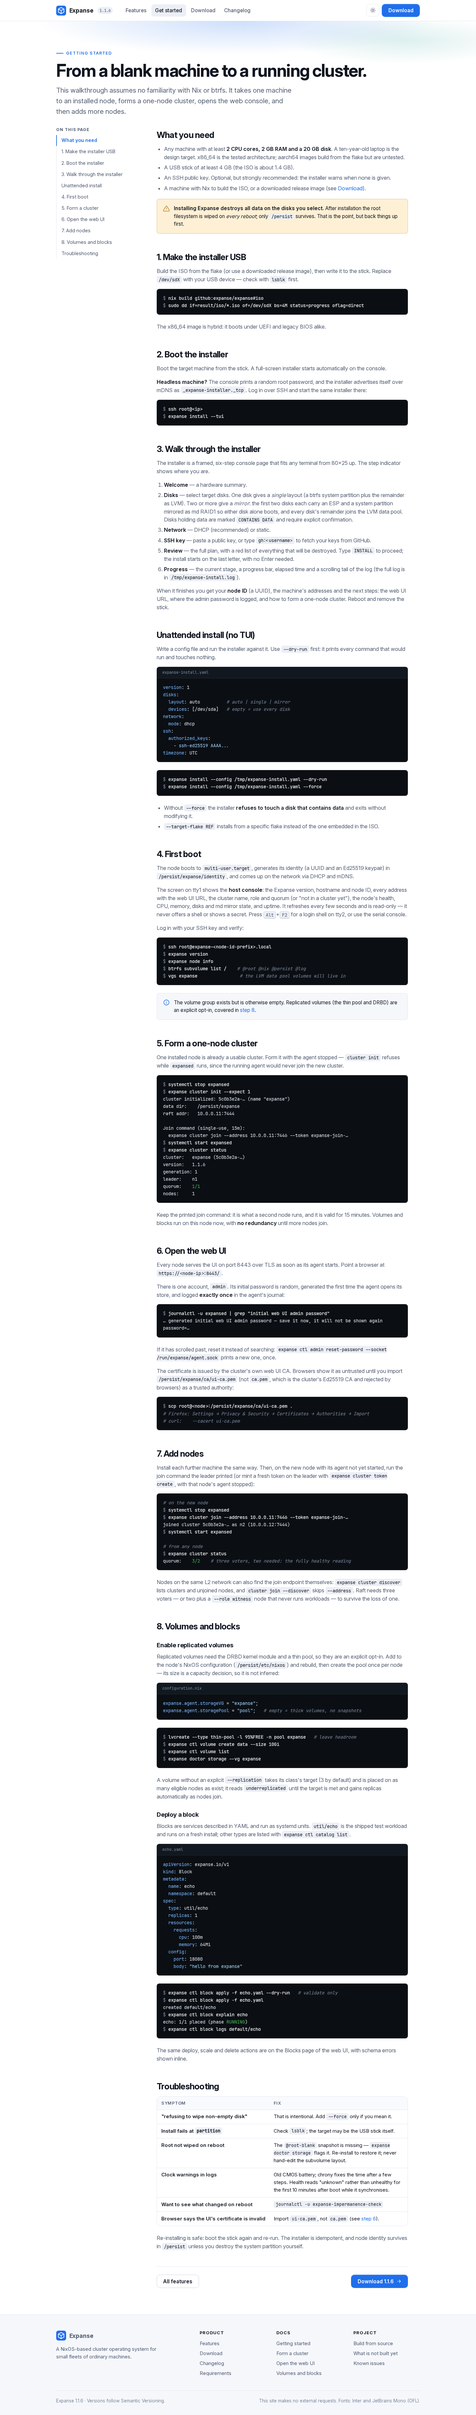
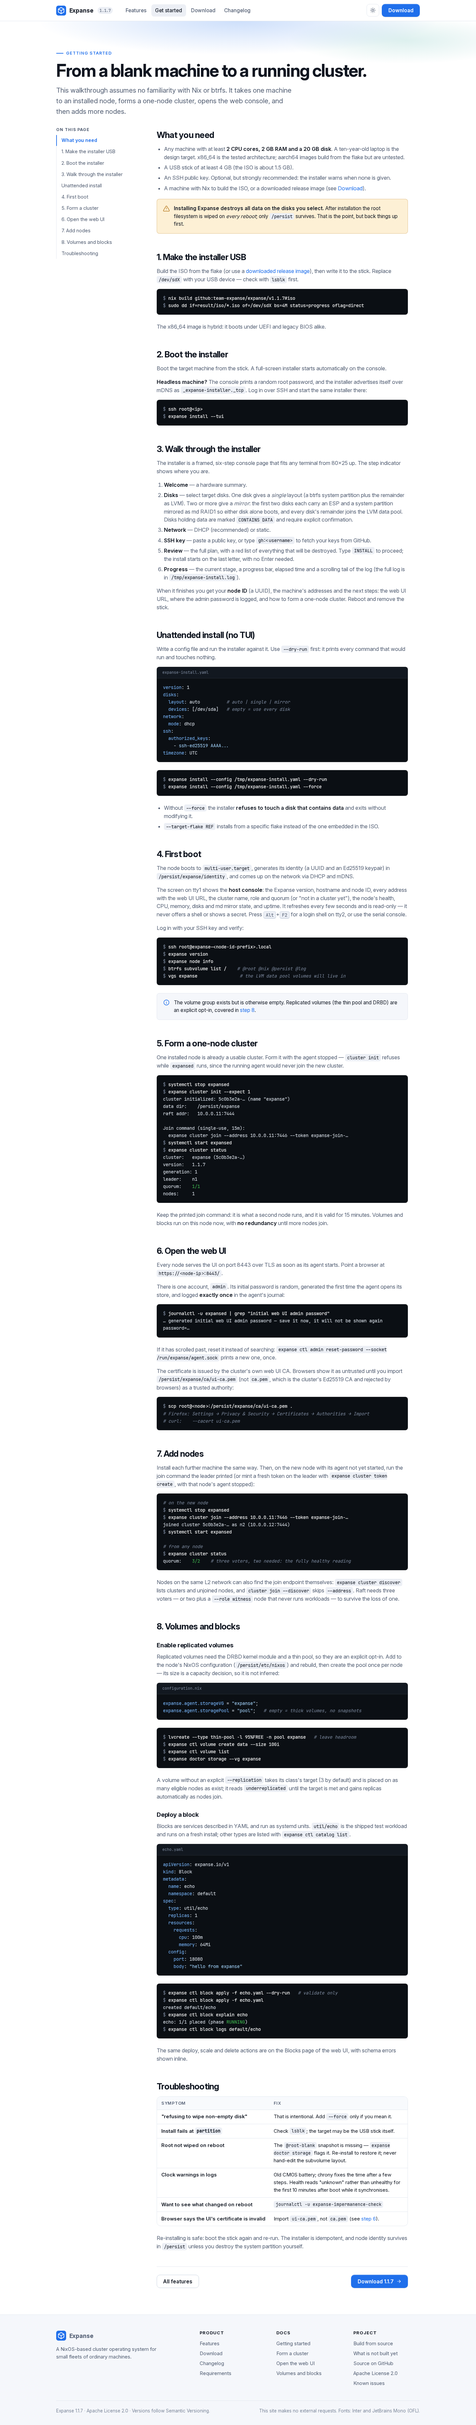
Prepare for launch and sync the site to Expanse 1.1.7
- Flake commands use the right org and pin the release tag
  (github:team-expanse/expanse/v1.1.7#iso)
- Footer links the source and the Apache License 2.0 on every page
- Download: link the GitHub release, show the ISO's SHA-256 and how to
  check it against SHA256SUMS, state the licence
- Release 1.1.7 synced by tools/sync-release from the published release
- Changelog code spans wrap on narrow screens; .nojekyll for GitHub Pages

Claude-Session: https://claude.ai/code/session_01TJ4uj8SR2WCx7QSxgW4hcT

diff --git a/download.html b/download.html
@@ -5,7 +5,7 @@
   <meta name="viewport" content="width=device-width, initial-scale=1">
   <meta name="color-scheme" content="light dark">
   <title>Download — Expanse</title>
-  <meta name="description" content="Get Expanse 1.1.6: the installer ISO, how to build it from source, hardware requirements, the changelog and known issues.">
+  <meta name="description" content="Get Expanse 1.1.7: the installer ISO, how to build it from source, hardware requirements, the changelog and known issues.">
   <link rel="icon" href="assets/logo.svg" type="image/svg+xml">
   <link rel="stylesheet" href="assets/site.css">
   <script>
@@ -34,7 +34,7 @@
     <a class="brand" href="index.html" aria-label="Expanse home">
       <svg class="brand-mark" aria-hidden="true"><use href="#i-logo"/></svg>
       <span>Expanse</span>
-      <span class="brand-version">1.1.6</span>
+      <span class="brand-version">1.1.7</span>
     </a>
     <nav class="site-nav" id="site-nav" data-nav aria-label="Main">
       <a href="features.html">Features</a>
@@ -60,7 +60,7 @@
     <div class="hero-bg" aria-hidden="true"></div>
     <div class="container">
       <div class="eyebrow">Download</div>
-      <h1>Get Expanse 1.1.6.</h1>
+      <h1>Get Expanse 1.1.7.</h1>
       <p class="lead">One hybrid ISO installs a node on x86_64 hardware. Build it from the flake, or write a release image to a USB stick, then follow the <a href="docs/getting-started.html">quickstart</a>.</p>
     </div>
   </section>
@@ -70,20 +70,21 @@
       <div class="release">
         <div class="release-card">
           <div class="eyebrow">Latest release</div>
-          <h2>Expanse 1.1.6</h2>
-          <div class="date">Released 2026-09-28 · installer facelift, tty1 host console, quiet boots</div>
+          <h2>Expanse 1.1.7</h2>
+          <div class="date">Released 2026-09-28 · Apache-2.0 licence, bundled third-party notices, quiet clock checks at boot</div>
           <div class="file">
             <svg class="icon" aria-hidden="true"><use href="#i-disc"/></svg>
             <div>
-              <div class="name">expanse-1.1.6-x86_64-linux.iso</div>
-              <div class="meta">Hybrid UEFI + BIOS installer image · about 1.4 GB · needs a 4 GB USB stick</div>
+              <div class="name">expanse-1.1.7-x86_64-linux.iso</div>
+              <div class="meta">Hybrid UEFI + BIOS installer image · about 1.5 GB · needs a 4 GB USB stick</div>
+              <div class="meta">SHA-256 <code class="sha256">ad0327c88508a9fe21d29a7f3fce8cb84c80d3aae7fb120af25f30d2b51e0e46</code></div>
             </div>
           </div>
           <div class="hero-actions" style="justify-content:flex-start">
-            <a class="btn btn-primary btn-lg" href="https://github.com/team-expanse/expanse/releases/download/v1.1.6/expanse-1.1.6-x86_64-linux.iso"><svg class="icon" aria-hidden="true"><use href="#i-download"/></svg>Download ISO</a>
+            <a class="btn btn-primary btn-lg" href="https://github.com/team-expanse/expanse/releases/download/v1.1.7/expanse-1.1.7-x86_64-linux.iso"><svg class="icon" aria-hidden="true"><use href="#i-download"/></svg>Download ISO</a>
             <a class="btn btn-secondary btn-lg" href="#source">Build from source</a>
           </div>
-          <p class="muted" style="margin-top:1.25rem;font-size:0.9rem">Release images are attached to the <code>v1.1.6</code> release on GitHub. Building from source gives you the same release: the flake asserts the ISO is named <code>expanse-1.1.6-*</code> and that the installer reports 1.1.6.</p>
+          <p class="muted" style="margin-top:1.25rem;font-size:0.9rem">Release images are attached to the <a href="https://github.com/team-expanse/expanse/releases/tag/v1.1.7"><code>v1.1.7</code> release</a> on GitHub. Check the download against the release's <a href="https://github.com/team-expanse/expanse/releases/download/v1.1.7/SHA256SUMS"><code>SHA256SUMS</code></a> with <code>sha256sum -c SHA256SUMS</code> in the same folder. Building from source gives you the same release: the flake asserts the ISO is named <code>expanse-1.1.7-*</code> and that the installer reports 1.1.7.</p>
         </div>
         <div>
           <div class="card" style="height:100%">
@@ -98,6 +99,7 @@
             <ul class="checks" style="margin-top:1.25rem">
               <li><svg class="icon" aria-hidden="true"><use href="#i-info"/></svg><span><strong>Architectures:</strong> x86_64, booting via UEFI or legacy BIOS. An aarch64 image (UEFI only) builds from the flake but has not been tested.</span></li>
               <li><svg class="icon" aria-hidden="true"><use href="#i-info"/></svg><span><strong>Cluster sizes:</strong> one node works; three voters (or two plus a witness) survive losing one.</span></li>
+              <li><svg class="icon" aria-hidden="true"><use href="#i-info"/></svg><span><strong>Licence:</strong> Expanse is free software under the <a href="https://github.com/team-expanse/expanse/blob/main/LICENSE">Apache License 2.0</a>; the source is on <a href="https://github.com/team-expanse/expanse">GitHub</a>.</span></li>
               <li><svg class="icon" aria-hidden="true"><use href="#i-info"/></svg><span><strong>Hardware status:</strong> automated coverage is on QEMU/KVM. Laptop, mini-PC, server and ARM SBC targets are listed in the hardware matrix as untested.</span></li>
             </ul>
           </div>
@@ -119,10 +121,10 @@
             <li><svg class="icon" aria-hidden="true"><use href="#i-info"/></svg><span>The release version lives in one place, <code>nix/version.nix</code>; the ISO name and <code>expanse version</code> both read it.</span></li>
           </ul>
         </div>
-        <div class="terminal"><div class="window-bar" aria-hidden="true"><span class="dots"><i></i><i></i><i></i></span><span>build the installer</span></div><pre><span class="cm"># the installer ISO, straight from the flake reference</span>
-<span class="p">$ </span><span class="cmd">nix build github:expanse/expanse#iso</span>
+        <div class="terminal"><div class="window-bar" aria-hidden="true"><span class="dots"><i></i><i></i><i></i></span><span>build the installer</span></div><pre><span class="cm"># the 1.1.7 installer ISO, straight from the release tag</span>
+<span class="p">$ </span><span class="cmd">nix build github:team-expanse/expanse/v1.1.7#iso</span>
 <span class="p">$ </span><span class="cmd">ls result/iso/</span>
-<span class="out">expanse-1.1.6-x86_64-linux.iso</span>
+<span class="out">expanse-1.1.7-x86_64-linux.iso</span>
 
 <span class="cm"># or from a checkout</span>
 <span class="p">$ </span><span class="cmd">nix develop</span>          <span class="cm"># go, golangci-lint, protoc, qemu, …</span>
@@ -143,6 +145,22 @@
       </div>
       <div class="changelog">
         <details class="rel latest" open>
+          <summary><span class="ver">1.1.7</span><span>Apache-2.0 licence, bundled third-party notices, quiet clock checks at boot</span><span class="when">2026-09-28</span><svg class="icon chev" aria-hidden="true"><use href="#i-chevron"/></svg></summary>
+          <div class="rel-body">
+            <h4>Added</h4>
+            <ul>
+              <li>Expanse is licensed under the Apache License, Version 2.0: <code>LICENSE</code> and <code>NOTICE</code> at the top of the source tree, and <code>meta.license</code> on the Nix package.</li>
+              <li>The <code>expanse</code> package ships <code>LICENSE</code>, <code>NOTICE</code>, a <code>THIRD-PARTY.md</code> listing every vendored Go module and its version, and each module's own licence, under <code>share/licenses/expanse</code>. Installed nodes and the installer link them at <code>/run/current-system/sw/share/licenses/expanse</code>. Earlier ISOs shipped the binaries without the notices their MIT and BSD modules require.</li>
+              <li><code>scripts/release.sh</code> publishes a release: it builds and checks the ISO, stages <code>SHA256SUMS</code>, the changelog notes and a <code>release.json</code> manifest, pushes the tag, creates the GitHub release with the ISO attached and runs the website's <code>tools/sync-release</code> hook. See <code>docs/RELEASING.md</code>.</li>
+            </ul>
+            <h4>Fixed</h4>
+            <ul>
+              <li>Nodes read DEGRADED for about two minutes after each boot, long enough to fire <code>ExpanseNodeDegraded</code>: the clock-sync check judged chrony's last correction, which is the clock step chrony makes at boot, instead of how far the clock is off now (<code>System time</code> in <code>chronyc tracking</code>).</li>
+            </ul>
+          </div>
+        </details>
+
+        <details class="rel">
           <summary><span class="ver">1.1.6</span><span>Installer facelift, tty1 host console, quiet boots</span><span class="when">2026-09-28</span><svg class="icon chev" aria-hidden="true"><use href="#i-chevron"/></svg></summary>
           <div class="rel-body">
             <h4>Changed</h4>
@@ -275,10 +293,10 @@
         <div>
           <div class="eyebrow">Known issues</div>
           <h2>Read before you install.</h2>
-          <p class="lead" style="margin-top:0.9rem">Carried in the changelog as of 1.1.6. Everything under 1.0.0 still applies unless a later release says otherwise.</p>
+          <p class="lead" style="margin-top:0.9rem">Carried in the changelog as of 1.1.7. Everything under 1.0.0 still applies unless a later release says otherwise.</p>
         </div>
         <div class="panel isnt">
-          <h3><svg class="icon" aria-hidden="true"><use href="#i-alert"/></svg>Open in 1.1.6</h3>
+          <h3><svg class="icon" aria-hidden="true"><use href="#i-alert"/></svg>Open in 1.1.7</h3>
           <ul>
             <li><strong>Binary-backed block types on installed nodes.</strong> nginx, redis and similar types need their program on the node's <code>PATH</code>, which an installed node does not yet ship. <code>util/echo</code> runs.</li>
             <li><strong>Web UI VIP.</strong> The UI takes one address from the external VIP pool; size the pool one larger than the block VIPs you need.</li>
@@ -337,12 +355,14 @@
         <ul>
           <li><a href="download.html#source">Build from source</a></li>
           <li><a href="features.html#not-yet">What is not built yet</a></li>
+          <li><a href="https://github.com/team-expanse/expanse">Source on GitHub</a></li>
+          <li><a href="https://github.com/team-expanse/expanse/blob/main/LICENSE">Apache License 2.0</a></li>
           <li><a href="download.html#known-issues">Known issues</a></li>
         </ul>
       </div>
     </div>
     <div class="footer-bottom">
-      <span>Expanse 1.1.6 · Versions follow Semantic Versioning.</span>
+      <span>Expanse 1.1.7 · Apache License 2.0 · Versions follow Semantic Versioning.</span>
       <span>This site makes no external requests. Fonts: Inter and JetBrains Mono (OFL).</span>
     </div>
   </div>

diff --git a/index.html b/index.html
@@ -56,7 +56,7 @@
     <a class="brand" href="index.html" aria-label="Expanse home">
       <svg class="brand-mark" aria-hidden="true"><use href="#i-logo"/></svg>
       <span>Expanse</span>
-      <span class="brand-version">1.1.6</span>
+      <span class="brand-version">1.1.7</span>
     </a>
     <nav class="site-nav" id="site-nav" data-nav aria-label="Main">
       <a href="features.html">Features</a>
@@ -86,15 +86,15 @@
     <div class="container">
       <div class="hero-inner">
         <a class="pill" href="download.html#changelog">
-          <span class="tag">1.1.6</span>
-          <span>Installer facelift, tty1 host console, quiet boots</span>
+          <span class="tag">1.1.7</span>
+          <span>Apache-2.0 licence, bundled third-party notices, quiet clock checks at boot</span>
           <svg class="icon" aria-hidden="true"><use href="#i-arrow"/></svg>
         </a>
         <h1>The cluster OS for the <span class="grad">machines you already have</span>.</h1>
         <p class="lead">Expanse turns ordinary hardware — the design target is a decade-old laptop — into a node of a self-healing cluster: replicated storage, scheduled services, VIP failover and a live web console. Built on NixOS from proven parts, not hand-rolled distributed systems.</p>
         <div class="hero-actions">
           <a class="btn btn-primary btn-lg" href="docs/getting-started.html">Get started<svg class="icon" aria-hidden="true"><use href="#i-arrow"/></svg></a>
-          <a class="btn btn-secondary btn-lg" href="download.html"><svg class="icon" aria-hidden="true"><use href="#i-download"/></svg>Download ISO 1.1.6</a>
+          <a class="btn btn-secondary btn-lg" href="download.html"><svg class="icon" aria-hidden="true"><use href="#i-download"/></svg>Download ISO 1.1.7</a>
         </div>
         <div class="hero-meta">
           <span><svg class="icon" aria-hidden="true"><use href="#i-check-circle"/></svg>2 cores · 2 GB RAM · 20 GB disk</span>
@@ -161,8 +161,8 @@
 
         <figure class="window window-dark" style="margin:0">
           <div class="window-bar" aria-hidden="true"><span class="dots"><i></i><i></i><i></i></span><span>tty1 · expanse-console.service</span></div>
-          <div class="tty" role="img" aria-label="Mock of the tty1 host console: Expanse 1.1.6 on host n1, healthy, addresses and web UI URL, cluster expanse with quorum 3 of 2 as leader, CPU, memory, disks and a healthy md RAID1 system mirror">
-<pre aria-hidden="true"><span class="hdr"> <span class="b">EXPANSE 1.1.6</span>                                 2026-09-28 17:42:10 UTC  </span>
+          <div class="tty" role="img" aria-label="Mock of the tty1 host console: Expanse 1.1.7 on host n1, healthy, addresses and web UI URL, cluster expanse with quorum 3 of 2 as leader, CPU, memory, disks and a healthy md RAID1 system mirror">
+<pre aria-hidden="true"><span class="hdr"> <span class="b">EXPANSE 1.1.7</span>                                 2026-09-28 17:42:10 UTC  </span>
 <span class="box">┌─ <span class="b">n1</span> ─────────────────────────────────────────────────────────────────┐</span>
 <span class="box">│</span> Hostname   n1                      Uptime     3d 4h 12m              <span class="box">│</span>
 <span class="box">│</span> Node ID    7d2f4c1e-9b3a-4e61-a0c7-5f8e21d3b940                      <span class="box">│</span>
@@ -215,7 +215,7 @@
       <div class="section-head">
         <div class="eyebrow">What you get</div>
         <h2>Everything a small fleet needs, in one image.</h2>
-        <p class="lead">One bootable ISO installs a node. Nodes find each other, join with single-use tokens, and share one strongly consistent control plane. Everything below ships in 1.1.6 and is exercised by NixOS VM tests that kill nodes, partition networks and pull disks.</p>
+        <p class="lead">One bootable ISO installs a node. Nodes find each other, join with single-use tokens, and share one strongly consistent control plane. Everything below ships in 1.1.7 and is exercised by NixOS VM tests that kill nodes, partition networks and pull disks.</p>
       </div>
       <div class="grid">
         <article class="card reveal">
@@ -289,7 +289,7 @@
           <span class="step-num" aria-hidden="true">1</span>
           <h3>Install a node</h3>
           <p>Write the ISO to a USB stick and boot the target. The installer picks disks, network and an SSH key, shows what it will destroy, then installs. Headless? SSH in and run it there.</p>
-          <div class="code"><pre><span class="p">$ </span><span class="cmd">nix build github:expanse/expanse#iso</span>
+          <div class="code"><pre><span class="p">$ </span><span class="cmd">nix build github:team-expanse/expanse/v1.1.7#iso</span>
 <span class="p">$ </span><span class="cmd">sudo dd if=result/iso/*.iso of=/dev/sdX bs=4M</span>
 <span class="cm"># boot the target from the stick, then:</span>
 <span class="p">$ </span><span class="cmd">expanse install --tui</span></pre></div>
@@ -338,7 +338,7 @@
           <div class="window-bar" aria-hidden="true"><span class="dots"><i></i><i></i><i></i></span><span>root@n1 — ssh</span></div>
 <pre><span class="p">$ </span><span class="cmd">expanse cluster status</span>
 <span class="out">cluster:   expanse (5c0b3e2a-…)</span>
-<span class="out">version:   1.1.6</span>
+<span class="out">version:   1.1.7</span>
 <span class="out">generation: 12</span>
 <span class="out">leader:    n1</span>
 <span class="out">quorum:    <span class="ok">3/2</span></span>
@@ -438,7 +438,7 @@
         <p class="lead">The quickstart takes a blank machine to a one-node cluster with a web console, and shows how each further node joins with a single command.</p>
         <div class="hero-actions">
           <a class="btn btn-primary btn-lg" href="docs/getting-started.html">Read the quickstart<svg class="icon" aria-hidden="true"><use href="#i-arrow"/></svg></a>
-          <a class="btn btn-secondary btn-lg" href="download.html"><svg class="icon" aria-hidden="true"><use href="#i-download"/></svg>Get Expanse 1.1.6</a>
+          <a class="btn btn-secondary btn-lg" href="download.html"><svg class="icon" aria-hidden="true"><use href="#i-download"/></svg>Get Expanse 1.1.7</a>
         </div>
       </div>
     </div>
@@ -475,12 +475,14 @@
         <ul>
           <li><a href="download.html#source">Build from source</a></li>
           <li><a href="features.html#not-yet">What is not built yet</a></li>
+          <li><a href="https://github.com/team-expanse/expanse">Source on GitHub</a></li>
+          <li><a href="https://github.com/team-expanse/expanse/blob/main/LICENSE">Apache License 2.0</a></li>
           <li><a href="download.html#known-issues">Known issues</a></li>
         </ul>
       </div>
     </div>
     <div class="footer-bottom">
-      <span>Expanse 1.1.6 · Versions follow Semantic Versioning.</span>
+      <span>Expanse 1.1.7 · Apache License 2.0 · Versions follow Semantic Versioning.</span>
       <span>This site makes no external requests. Fonts: Inter and JetBrains Mono (OFL).</span>
     </div>
   </div>

diff --git a/features.html b/features.html
@@ -5,7 +5,7 @@
   <meta name="viewport" content="width=device-width, initial-scale=1">
   <meta name="color-scheme" content="light dark">
   <title>Features — Expanse</title>
-  <meta name="description" content="Everything Expanse 1.1.6 ships: installer, Raft control plane, DRBD-replicated volumes, blocks, networking, generations and rolling upgrades, web and host consoles, observability, security, backup, and what is deliberately not built yet.">
+  <meta name="description" content="Everything Expanse 1.1.7 ships: installer, Raft control plane, DRBD-replicated volumes, blocks, networking, generations and rolling upgrades, web and host consoles, observability, security, backup, and what is deliberately not built yet.">
   <link rel="icon" href="assets/logo.svg" type="image/svg+xml">
   <link rel="stylesheet" href="assets/site.css">
   <script>
@@ -46,7 +46,7 @@
     <a class="brand" href="index.html" aria-label="Expanse home">
       <svg class="brand-mark" aria-hidden="true"><use href="#i-logo"/></svg>
       <span>Expanse</span>
-      <span class="brand-version">1.1.6</span>
+      <span class="brand-version">1.1.7</span>
     </a>
     <nav class="site-nav" id="site-nav" data-nav aria-label="Main">
       <a href="features.html" aria-current="page">Features</a>
@@ -72,7 +72,7 @@
     <div class="hero-bg" aria-hidden="true"></div>
     <div class="container">
       <div class="eyebrow">Features</div>
-      <h1>What ships in Expanse 1.1.6.</h1>
+      <h1>What ships in Expanse 1.1.7.</h1>
       <p class="lead">Every capability below is in the release, documented, and covered by NixOS VM tests that exercise real node kills, partitions and restarts. The last section lists what is deliberately <em>not</em> built yet, so you are never guessing.</p>
       <div class="parts-row" style="justify-content:flex-start;margin-top:1.5rem">
         <a class="part" href="#install">Installer</a>
@@ -124,7 +124,7 @@
         <dl class="kv">
           <div><dt>Targets</dt><dd>x86_64; aarch64 builds, untested</dd></div>
           <div><dt>Minimum</dt><dd>2 cores · 2 GB · 20 GB</dd></div>
-          <div><dt>ISO size</dt><dd>about 1.4 GB</dd></div>
+          <div><dt>ISO size</dt><dd>about 1.5 GB</dd></div>
         </dl>
       </div>
     </section>
@@ -335,7 +335,7 @@
       </div>
       <div>
         <div class="terminal"><div class="window-bar" aria-hidden="true"><span class="dots"><i></i><i></i><i></i></span><span>root@n1 — ssh</span></div><pre><span class="p">$ </span><span class="cmd">expanse console --once</span>
-<span class="out"> <span class="cmd">EXPANSE 1.1.6</span>                      2026-09-28 17:42:10 UTC</span>
+<span class="out"> <span class="cmd">EXPANSE 1.1.7</span>                      2026-09-28 17:42:10 UTC</span>
 <span class="out">┌─ <span class="cmd">n1</span> ─────────────────────────────────────────────────────┐</span>
 <span class="out">│ Hostname   n1                Uptime     3d 4h 12m        │</span>
 <span class="out">│ Health     <span class="ok">HEALTHY</span>                                       │</span>
@@ -509,7 +509,7 @@
         <p class="lead">The quickstart goes from a USB stick to a one-node cluster with a web console, then adds nodes.</p>
         <div class="hero-actions">
           <a class="btn btn-primary btn-lg" href="docs/getting-started.html">Read the quickstart<svg class="icon" aria-hidden="true"><use href="#i-arrow"/></svg></a>
-          <a class="btn btn-secondary btn-lg" href="download.html"><svg class="icon" aria-hidden="true"><use href="#i-download"/></svg>Download 1.1.6</a>
+          <a class="btn btn-secondary btn-lg" href="download.html"><svg class="icon" aria-hidden="true"><use href="#i-download"/></svg>Download 1.1.7</a>
         </div>
       </div>
     </div>
@@ -546,12 +546,14 @@
         <ul>
           <li><a href="download.html#source">Build from source</a></li>
           <li><a href="features.html#not-yet">What is not built yet</a></li>
+          <li><a href="https://github.com/team-expanse/expanse">Source on GitHub</a></li>
+          <li><a href="https://github.com/team-expanse/expanse/blob/main/LICENSE">Apache License 2.0</a></li>
           <li><a href="download.html#known-issues">Known issues</a></li>
         </ul>
       </div>
     </div>
     <div class="footer-bottom">
-      <span>Expanse 1.1.6 · Versions follow Semantic Versioning.</span>
+      <span>Expanse 1.1.7 · Apache License 2.0 · Versions follow Semantic Versioning.</span>
       <span>This site makes no external requests. Fonts: Inter and JetBrains Mono (OFL).</span>
     </div>
   </div>

diff --git a/docs/getting-started.html b/docs/getting-started.html
@@ -31,7 +31,7 @@
     <a class="brand" href="../index.html" aria-label="Expanse home">
       <svg class="brand-mark" aria-hidden="true"><use href="#i-logo"/></svg>
       <span>Expanse</span>
-      <span class="brand-version">1.1.6</span>
+      <span class="brand-version">1.1.7</span>
     </a>
     <nav class="site-nav" id="site-nav" data-nav aria-label="Main">
       <a href="../features.html">Features</a>
@@ -84,15 +84,15 @@
       <h2 id="requirements">What you need</h2>
       <ul>
         <li>Any machine with at least <strong>2 CPU cores, 2 GB RAM and a 20 GB disk</strong>. A ten-year-old laptop is the design target. x86_64 is the tested architecture; aarch64 images build from the flake but are untested.</li>
-        <li>A USB stick of at least 4 GB (the ISO is about 1.4 GB).</li>
+        <li>A USB stick of at least 4 GB (the ISO is about 1.5 GB).</li>
         <li>An SSH public key. Optional, but strongly recommended: the installer warns when none is given.</li>
         <li>A machine with Nix to build the ISO, or a downloaded release image (see <a href="../download.html">Download</a>).</li>
       </ul>
       <div class="callout warn"><svg class="icon" aria-hidden="true"><use href="#i-alert"/></svg><div><p><strong>Installing Expanse destroys all data on the disks you select.</strong> After installation the root filesystem is wiped on <em>every reboot</em>; only <code>/persist</code> survives. That is the point, but back things up first.</p></div></div>
 
       <h2 id="usb">1. Make the installer USB</h2>
-      <p>Build the ISO from the flake (or use a downloaded release image), then write it to the stick. Replace <code>/dev/sdX</code> with your USB device — check with <code>lsblk</code> first.</p>
-      <div class="code"><pre><span class="p">$ </span><span class="cmd">nix build github:expanse/expanse#iso</span>
+      <p>Build the ISO from the flake (or use a <a href="../download.html">downloaded release image</a>), then write it to the stick. Replace <code>/dev/sdX</code> with your USB device — check with <code>lsblk</code> first.</p>
+      <div class="code"><pre><span class="p">$ </span><span class="cmd">nix build github:team-expanse/expanse/v1.1.7#iso</span>
 <span class="p">$ </span><span class="cmd">sudo dd if=result/iso/*.iso of=/dev/sdX bs=4M status=progress oflag=direct</span></pre></div>
       <p>The x86_64 image is hybrid: it boots under UEFI and legacy BIOS alike.</p>
 
@@ -157,7 +157,7 @@
 <span class="p">$ </span><span class="cmd">systemctl start expansed</span>
 <span class="p">$ </span><span class="cmd">expanse cluster status</span>
 <span class="out">cluster:   expanse (5c0b3e2a-…)</span>
-<span class="out">version:   1.1.6</span>
+<span class="out">version:   1.1.7</span>
 <span class="out">generation: 1</span>
 <span class="out">leader:    n1</span>
 <span class="out">quorum:    <span class="ok">1/1</span></span>
@@ -242,7 +242,7 @@
 
       <nav class="doc-nav" aria-label="Related pages">
         <a class="btn btn-secondary" href="../features.html">All features</a>
-        <a class="btn btn-primary" href="../download.html">Download 1.1.6<svg class="icon" aria-hidden="true"><use href="#i-arrow"/></svg></a>
+        <a class="btn btn-primary" href="../download.html">Download 1.1.7<svg class="icon" aria-hidden="true"><use href="#i-arrow"/></svg></a>
       </nav>
     </article>
   </div>
@@ -278,12 +278,14 @@
         <ul>
           <li><a href="../download.html#source">Build from source</a></li>
           <li><a href="../features.html#not-yet">What is not built yet</a></li>
+          <li><a href="https://github.com/team-expanse/expanse">Source on GitHub</a></li>
+          <li><a href="https://github.com/team-expanse/expanse/blob/main/LICENSE">Apache License 2.0</a></li>
           <li><a href="../download.html#known-issues">Known issues</a></li>
         </ul>
       </div>
     </div>
     <div class="footer-bottom">
-      <span>Expanse 1.1.6 · Versions follow Semantic Versioning.</span>
+      <span>Expanse 1.1.7 · Apache License 2.0 · Versions follow Semantic Versioning.</span>
       <span>This site makes no external requests. Fonts: Inter and JetBrains Mono (OFL).</span>
     </div>
   </div>

diff --git a/assets/site.css b/assets/site.css
@@ -568,6 +568,7 @@ h2:hover .h-anchor, h3:hover .h-anchor { opacity: 1; }
 .file .icon { width: 1.5rem; height: 1.5rem; color: var(--accent); }
 .file .name { font-family: var(--mono); font-size: 0.88rem; font-weight: 500; word-break: break-all; }
 .file .meta { font-size: 0.8rem; color: var(--muted); }
+.file .sha256 { font-size: 0.72rem; overflow-wrap: anywhere; }
 .reqs { display: grid; grid-template-columns: repeat(auto-fit, minmax(130px, 1fr)); gap: 0.75rem; }
 .reqs > div { background: var(--bg-2); border: 1px solid var(--border); border-radius: var(--radius-sm); padding: 0.8rem 0.9rem; }
 .reqs .n { font-weight: 700; font-size: 1.25rem; letter-spacing: -0.02em; }
@@ -583,6 +584,7 @@ h2:hover .h-anchor, h3:hover .h-anchor { opacity: 1; }
 .rel-body { padding: 0 1.25rem 1.25rem; color: var(--muted); font-size: 0.95rem; border-top: 1px solid var(--border); }
 .rel-body h4 { margin: 1.1rem 0 0.4rem; font-size: 0.8rem; text-transform: uppercase; letter-spacing: 0.06em; color: var(--fg); }
 .rel-body ul { margin: 0; padding-left: 1.2rem; }
+.rel-body code { overflow-wrap: anywhere; }
 .rel-body li { margin-bottom: 0.35rem; }
 .rel-body li strong { color: var(--fg); }
 .rel.latest summary .ver { background: var(--accent); color: var(--accent-fg); }
